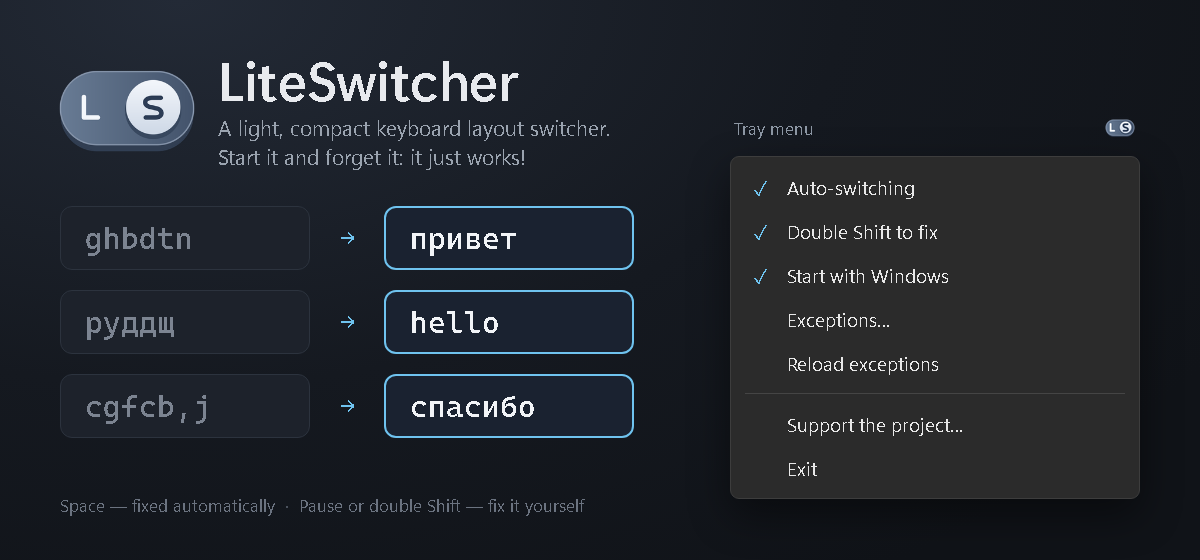
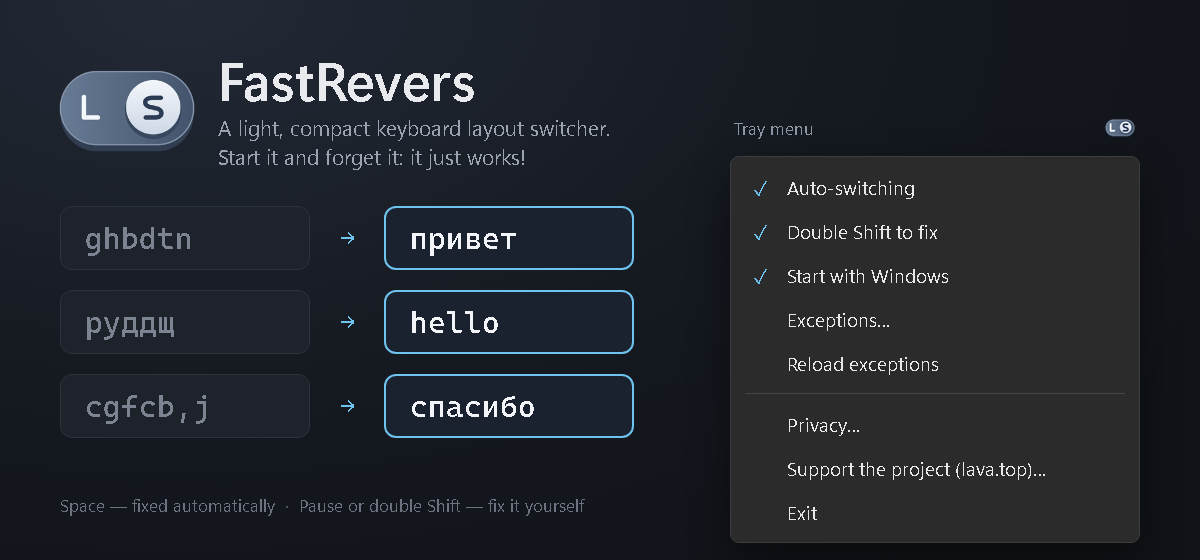
FastRevers page: release 2.2.0
Download links to FastRevers-*.zip (the old LiteSwitcher-*.zip names gave 404 after 2.2.0),
FastRevers.exe/.app/.ini, the new demo picture, SHA-256 and policy links.

diff --git a/FastRevers/index.html b/FastRevers/index.html
@@ -42,9 +42,9 @@
       "license": "https://opensource.org/licenses/MIT",
       "image": "https://u-said.github.io/FastRevers/img/ls-256.png",
       "screenshot": "https://u-said.github.io/FastRevers/img/demo-en.png",
-      "downloadUrl": "https://github.com/U-Said/LiteSwitcher/releases/latest",
+      "downloadUrl": "https://github.com/U-Said/FastRevers/releases/latest",
       "publisher": { "@type": "Person", "name": "U-Said" },
-      "sameAs": ["https://github.com/U-Said/LiteSwitcher"]
+      "sameAs": ["https://github.com/U-Said/FastRevers"]
     }
   ]
 }
@@ -172,7 +172,7 @@ footer .tm { margin: 16px 0 0; font-size: 12.5px; line-height: 1.5; }
   <nav class="nav">
     <a class="cta" href="#dl">Download</a>
     <a class="hide-s" href="#how">How it works</a>
-    <a class="hide-s" href="https://github.com/U-Said/LiteSwitcher">GitHub</a>
+    <a class="hide-s" href="https://github.com/U-Said/FastRevers">GitHub</a>
   </nav>
 </div></header>
 
@@ -181,17 +181,17 @@ footer .tm { margin: 16px 0 0; font-size: 12.5px; line-height: 1.5; }
     <p class="kicker">Keyboard layout switcher for Russian and English</p>
     <h1>Typed in the wrong layout? FastRevers fixes it</h1>
     <p class="lead">Typed <code>ghbdtn</code> when you meant «привет»? FastRevers notices it when you press Space, retypes the word and switches the layout. One small app for Windows and macOS: download, unzip, run.</p>
-    <p class="renamed"><b>FastRevers is the new name of LiteSwitcher.</b> Version 2.1.0 still uses the old name in its files, its menu and its settings; the next release will be called FastRevers.</p>
-    <figure class="shot"><img src="img/demo-en.png" width="1200" height="560" alt="Version 2.1.0, still named LiteSwitcher, turns ghbdtn into привет and руддщ into hello; its tray menu"><figcaption>Version 2.1.0 is still called LiteSwitcher.</figcaption></figure>
+    <p class="renamed"><b>FastRevers is the new name of LiteSwitcher.</b> Since version 2.2 the app is called FastRevers and takes over the settings, exceptions and autostart of LiteSwitcher by itself.</p>
+    <figure class="shot"><img src="img/demo-en.png" width="1200" height="560" alt="FastRevers turns ghbdtn into привет and руддщ into hello; its tray menu"></figure>
   </section>
 
   <section class="wrap block" id="dl">
     <div class="card" id="dl-card">
       <noscript>
         <div class="btns">
-          <a class="btn soft" href="https://github.com/U-Said/LiteSwitcher/releases/latest/download/LiteSwitcher-Windows.zip">Windows (x64)</a>
-          <a class="btn soft" href="https://github.com/U-Said/LiteSwitcher/releases/latest/download/LiteSwitcher-Windows-arm64.zip">Windows on Arm</a>
-          <a class="btn soft" href="https://github.com/U-Said/LiteSwitcher/releases/latest/download/LiteSwitcher-macOS.zip">macOS</a>
+          <a class="btn soft" href="https://github.com/U-Said/FastRevers/releases/latest/download/FastRevers-Windows.zip">Windows (x64)</a>
+          <a class="btn soft" href="https://github.com/U-Said/FastRevers/releases/latest/download/FastRevers-Windows-arm64.zip">Windows on Arm</a>
+          <a class="btn soft" href="https://github.com/U-Said/FastRevers/releases/latest/download/FastRevers-macOS.zip">macOS</a>
         </div>
       </noscript>
     </div>
@@ -213,8 +213,8 @@ footer .tm { margin: 16px 0 0; font-size: 12.5px; line-height: 1.5; }
   <section class="wrap block" id="privacy">
     <h2>What it keeps, and where</h2>
     <div class="prose">
-      <p>Keystrokes are kept <b>in memory only, for the current word</b>. On disk FastRevers writes only its own data: its settings (<code>LiteSwitcher.ini</code> on Windows, the app’s preferences on a Mac), the exceptions file <code>exceptions.txt</code>, where words whose fix you undid are added as plain text, and the start-at-login entry if you turn it on.</p>
-      <p>It sends nothing over the network: <b>there is no network code</b>, and a browser opens only from the “Support the project…” menu item. To convert selected text, FastRevers copies it via the clipboard, like <kbd>Ctrl</kbd>+<kbd>C</kbd>, and then restores the previous contents. If Windows clipboard history (<kbd>Win</kbd>+<kbd>V</kbd>) or its sync is on, the copied fragment may be saved there (on a Mac, in clipboard managers); the converted text is marked so that it is not.</p>
+      <p>Keystrokes are kept <b>in memory only, for the current word</b>. On disk FastRevers writes only its own data: its settings (<code>FastRevers.ini</code> on Windows, the app’s preferences on a Mac), the exceptions file <code>exceptions.txt</code>, where words whose fix you undid are added as plain text, and the start-at-login entry if you turn it on.</p>
+      <p>It sends nothing over the network: <b>there is no network code</b>, and a browser opens only from the “Privacy…” and “Support the project (lava.top)…” menu items. To convert selected text, FastRevers copies it via the clipboard, like <kbd>Ctrl</kbd>+<kbd>C</kbd>, and then restores the previous contents. If Windows clipboard history (<kbd>Win</kbd>+<kbd>V</kbd>) or its sync is on, the copied fragment may be saved there (on a Mac, in clipboard managers); the converted text is marked so that it is not.</p>
       <p>Password fields: macOS hides their keystrokes from FastRevers. On Windows FastRevers skips classic password boxes; it cannot detect password fields in browsers, but a word is only fixed after Space, and passwords rarely contain spaces.</p>
     </div>
   </section>
@@ -223,12 +223,12 @@ footer .tm { margin: 16px 0 0; font-size: 12.5px; line-height: 1.5; }
     <h2>Questions</h2>
     <div class="faq">
       <details><summary>Which layouts does it work with?</summary><p>Russian and English. On a Mac you need an English input source (ABC or U.S.) and Russian or Russian – PC.</p></details>
-      <details><summary>Is FastRevers free?</summary><p>Yes. It is free, has no ads, and its source code is open under the MIT license on <a href="https://github.com/U-Said/LiteSwitcher">GitHub</a>.</p></details>
+      <details><summary>Is FastRevers free?</summary><p>Yes. It is free, has no ads, and its source code is open under the MIT license on <a href="https://github.com/U-Said/FastRevers">GitHub</a>.</p></details>
       <details><summary>Will it fix every word?</summary><p>No. There is no dictionary, so misses and false positives are possible. Fix a missed word with a double Shift; undo a wrong fix the same way, and the word goes to the exceptions.</p></details>
       <details><summary>Does it run on Windows on Arm?</summary><p>Yes. There is a native Arm64 build for Windows 11 on Snapdragon PCs, such as the Snapdragon models of Surface Pro and Surface Laptop.</p></details>
       <details><summary>Does it need admin rights?</summary><p>No. On Windows it runs from any folder you choose. On a Mac it needs your permission in Privacy &amp; Security → Accessibility to see the keys you type.</p></details>
       <details><summary>Is there a version for Linux, Android or iPhone?</summary><p>Not at the moment: FastRevers is for Windows and macOS.</p></details>
-      <details><summary>Something does not work as it should.</summary><p>Please tell us in <a href="https://github.com/U-Said/LiteSwitcher/issues">GitHub Issues</a>.</p></details>
+      <details><summary>Something does not work as it should.</summary><p>Please tell us in <a href="https://github.com/U-Said/FastRevers/issues">GitHub Issues</a>.</p></details>
     </div>
   </section>
 </main>
@@ -238,9 +238,11 @@ footer .tm { margin: 16px 0 0; font-size: 12.5px; line-height: 1.5; }
     <div class="row">
       <span>© 2026 U-Said · MIT license</span>
       <nav>
-        <a href="https://github.com/U-Said/LiteSwitcher">Source code</a>
-        <a href="https://github.com/U-Said/LiteSwitcher/releases">All versions</a>
-        <a href="https://github.com/U-Said/LiteSwitcher/issues">Issues</a>
+        <a href="https://github.com/U-Said/FastRevers">Source code</a>
+        <a href="https://github.com/U-Said/FastRevers/releases">All versions</a>
+        <a href="https://github.com/U-Said/FastRevers/issues">Issues</a>
+        <a href="https://github.com/U-Said/FastRevers/blob/main/PRIVACY.md#privacy-policy">Privacy</a>
+        <a href="https://github.com/U-Said/FastRevers/blob/main/SECURITY.md#security-policy">Security</a>
       </nav>
     </div>
     <p class="tm">FastRevers is a trademark of U-Said. Windows, Surface and Copilot are trademarks of the Microsoft group of companies. Mac, macOS, iPhone and iPad are trademarks of Apple Inc., registered in the U.S. and other countries and regions. Android is a trademark of Google LLC. Linux® is the registered trademark of Linus Torvalds in the U.S. and other countries. Snapdragon is a trademark of Qualcomm Incorporated. Other names are trademarks of their respective owners. FastRevers is an independent product, not affiliated with, endorsed or sponsored by any of them.</p>
@@ -250,32 +252,32 @@ footer .tm { margin: 16px 0 0; font-size: 12.5px; line-height: 1.5; }
 <script>
 (function () {
   'use strict';
-  var REPO = 'U-Said/LiteSwitcher';
+  var REPO = 'U-Said/FastRevers';
   var DL = 'https://github.com/' + REPO + '/releases/latest/download/';
   // The latest release, written into the page: the visitor's browser does not ask GitHub for it.
-  // After a new release update the tag and the sizes (gh release view --repo U-Said/LiteSwitcher --json tagName,assets)
+  // After a new release update the tag and the sizes (gh release view --repo U-Said/FastRevers --json tagName,assets)
   // and publish the page again. The download links go to releases/latest and need no change.
-  var release = { tag: 'v2.1.0', sizes: { 'LiteSwitcher-Windows.zip': 192689, 'LiteSwitcher-Windows-arm64.zip': 177666, 'LiteSwitcher-macOS.zip': 287709 } };
+  var release = { tag: 'v2.2.0', sizes: { 'FastRevers-Windows.zip': 196940, 'FastRevers-Windows-arm64.zip': 182527, 'FastRevers-macOS.zip': 289917 } };
   var OS_PATH = {
     windows: 'M3 4h18a1 1 0 0 1 1 1v11a1 1 0 0 1-1 1h-7v2h3v2H7v-2h3v-2H3a1 1 0 0 1-1-1V5a1 1 0 0 1 1-1zm1 2v9h16V6H4z',
     mac: 'M5 5h14a1 1 0 0 1 1 1v9H4V6a1 1 0 0 1 1-1zm1 2v6h12V7H6zM2 16.5h20v1.5a2 2 0 0 1-2 2H4a2 2 0 0 1-2-2v-1.5z'
   };
   var BUILDS = {
-    'win-x64': { os: 'windows', name: 'Windows', file: 'LiteSwitcher-Windows.zip', req: 'Windows 10 and 11 · Intel and AMD (x64)', steps: [
-      'Unzip the archive into any folder you like and run <code>LiteSwitcher.exe</code>. No admin rights are needed.',
+    'win-x64': { os: 'windows', name: 'Windows', file: 'FastRevers-Windows.zip', req: 'Windows 10 and 11 · Intel and AMD (x64)', steps: [
+      'Unzip the archive into a folder that is not synced to the cloud, for example <code>%LOCALAPPDATA%\\Programs\\FastRevers</code>, and run <code>FastRevers.exe</code>. No admin rights are needed.',
       'If Windows says “Windows protected your PC”, click <b>More info</b> → <b>Run anyway</b>: the app is not signed with a paid certificate yet.',
       'Its icon appears next to the clock. To start it automatically, tick <b>Start with Windows</b> in its menu.'
-    ] },
-    'win-arm64': { os: 'windows', name: 'Windows on Arm', file: 'LiteSwitcher-Windows-arm64.zip', req: 'Windows 11 · Snapdragon: Snapdragon PCs, such as Surface Pro and Surface Laptop with Snapdragon', steps: [
-      'Unzip the archive into any folder you like and run <code>LiteSwitcher.exe</code>. No admin rights are needed.',
+    ], tip: 'Coming from LiteSwitcher? Put <code>FastRevers.exe</code> into the folder with <code>LiteSwitcher.exe</code> and run it: FastRevers closes the old version and takes over its settings, exceptions and autostart.' },
+    'win-arm64': { os: 'windows', name: 'Windows on Arm', file: 'FastRevers-Windows-arm64.zip', req: 'Windows 11 · Snapdragon: Snapdragon PCs, such as Surface Pro and Surface Laptop with Snapdragon', steps: [
+      'Unzip the archive into a folder that is not synced to the cloud, for example <code>%LOCALAPPDATA%\\Programs\\FastRevers</code>, and run <code>FastRevers.exe</code>. No admin rights are needed.',
       'If Windows says “Windows protected your PC”, click <b>More info</b> → <b>Run anyway</b>: the app is not signed with a paid certificate yet.',
       'Its icon appears next to the clock. To start it automatically, tick <b>Start with Windows</b> in its menu.'
-    ] },
-    'mac': { os: 'mac', name: 'macOS', file: 'LiteSwitcher-macOS.zip', req: 'macOS 11 or later · Apple silicon and Intel', steps: [
-      'Unzip <code>LiteSwitcher-macOS.zip</code> and drag <b>LiteSwitcher.app</b> to <b>Applications</b>.',
-      'Open LiteSwitcher. It is not notarized by Apple yet, so macOS blocks the first launch: open <b>System Settings → Privacy &amp; Security</b> and click <b>Open Anyway</b> at the bottom (on macOS 14 and older: Control-click the app → <b>Open</b>).',
-      'Allow LiteSwitcher in <b>Privacy &amp; Security → Accessibility</b>. A few seconds later its menu bar icon turns solid and it is working. To start it automatically, tick <b>Open at login</b> in its menu.'
-    ], tip: 'The macOS version is built and passes automated checks on a Mac, but has not been tried by hand on a real Mac yet. If something misbehaves, please open an <a href="https://github.com/U-Said/LiteSwitcher/issues">issue</a>.' }
+    ], tip: 'Coming from LiteSwitcher? Put <code>FastRevers.exe</code> into the folder with <code>LiteSwitcher.exe</code> and run it: FastRevers closes the old version and takes over its settings, exceptions and autostart.' },
+    'mac': { os: 'mac', name: 'macOS', file: 'FastRevers-macOS.zip', req: 'macOS 11 or later · Apple silicon and Intel', steps: [
+      'Unzip <code>FastRevers-macOS.zip</code> and drag <b>FastRevers.app</b> to <b>Applications</b>.',
+      'Open FastRevers. It is not notarized by Apple yet, so macOS blocks the first launch: open <b>System Settings → Privacy &amp; Security</b> and click <b>Open Anyway</b> at the bottom (on macOS 14 and older: Control-click the app → <b>Open</b>).',
+      'Allow FastRevers in <b>Privacy &amp; Security → Accessibility</b>. A few seconds later its menu bar icon turns solid and it is working. To start it automatically, tick <b>Open at login</b> in its menu.'
+    ], tip: 'The macOS version is built and passes automated checks on a Mac, but has not been tried by hand on a real Mac yet. If something misbehaves, please open an <a href="https://github.com/U-Said/FastRevers/issues">issue</a>.' }
   };
   var ORDER = ['win-x64', 'win-arm64', 'mac'];
   var ICON_DL = '<svg viewBox="0 0 24 24" aria-hidden="true"><path fill="currentColor" d="M11 4h2v9.17l3.59-3.58L18 11l-6 6-6-6 1.41-1.41L11 13.17V4zM5 18h14v2H5z"/></svg>';
@@ -290,7 +292,7 @@ footer .tm { margin: 16px 0 0; font-size: 12.5px; line-height: 1.5; }
     if (b) {
       h += '<div class="for">' + icon(b.os) + '<span>' + (chosen ? '' : 'Your system: ') + '<b>' + b.name + '</b></span></div>';
       h += '<div class="btns"><a class="btn primary" href="' + DL + b.file + '">' + ICON_DL + 'Download for ' + b.name + '</a></div>';
-      h += '<p class="meta">' + b.req + ' · ZIP, ' + mb(release.sizes[b.file]) + ' · version ' + release.tag.replace(/^v/, '') + '</p>';
+      h += '<p class="meta">' + b.req + ' · ZIP, ' + mb(release.sizes[b.file]) + ' · version ' + release.tag.replace(/^v/, '') + ' · <a href="' + DL + 'SHA256SUMS.txt">SHA-256</a></p>';
       h += '<ol class="steps">' + b.steps.map(function (s) { return '<li>' + s + '</li>'; }).join('') + '</ol>';
       if (b.tip) h += '<div class="tip">' + b.tip + '</div>';
     } else {
